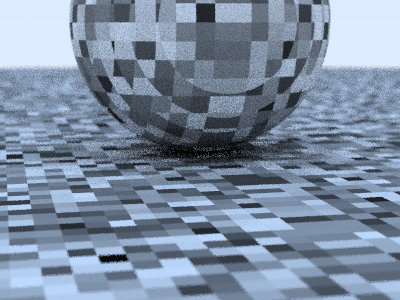
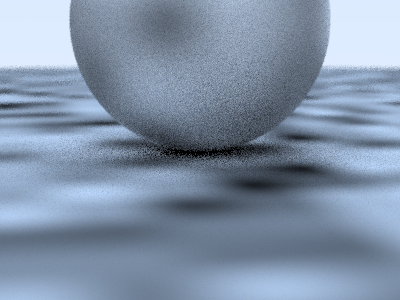
added more to perlin
currently on pg 24

diff --git a/PyTrace_Next_Week/src/core/texture.py b/PyTrace_Next_Week/src/core/texture.py
@@ -28,7 +28,15 @@ class checker_texture(texture):
 		else:
 			return self.even.value(u,v,p)
 
-
+def trilinear_interp(c: np.array, u: float, v: float, w: float):
+	accum = 0
+	for i in range(2):
+		for j in range(2):
+			for k in range(2):
+				accum += (i * u + (1 - i) * (1 - u)) * \
+						 (j * v + (1 - j) * (1 - v)) * \
+						 (k * w + (1 - k) * (1 - w)) * c[i,j,k]
+	return accum
 
 #generate perlin noise
 class perlin:
@@ -50,18 +58,29 @@ class perlin:
 		u = p[0] - math.floor(p[0])
 		v = p[1] - math.floor(p[1])
 		w = p[2] - math.floor(p[2])
-		i = int(4 * p[0]) & 255
-		j = int(4 * p[1]) & 255
-		k = int(4 * p[2]) & 255
-		#print(self.ranfloat[ self.perm_x[i] ^ self.perm_y[j] ^ self.perm_z[k]])
-		return self.ranfloat[ self.perm_x[i] ^ self.perm_y[j] ^ self.perm_z[k]]
+
+		u *= u * (3 - 2*u)
+		v *= v * (3 - 2*v)
+		w *= w * (3 - 2*w)
+
+		i = int(math.floor(p[0]))
+		j = int(math.floor(p[1]))
+		k = int(math.floor(p[2]))
+
+		c = np.zeros((2,2,2))
+		for di in range(2):
+			for dj in range(2):
+				for dk in range(2):
+					c[di,dj,dk] = self.ranfloat[ self.perm_x[(i + di) & 255] ^ self.perm_y[(j + dj) & 255] ^ self.perm_z[(k + dk) & 255]]
+		return trilinear_interp(c,u,v,w)
 
 
 class noise_texture(texture):
-	def __init__(self):
+	def __init__(self,scale: int = 1):
 		self.noise = perlin()
+		self.scale = scale
 	def value(self,u: float, v: float, p: vec3):
 		#print(self.noise.noise(p))
-		return vec3(1,1,1) * self.noise.noise(p)
+		return vec3(1,1,1) * self.noise.noise(self.scale * p)
 
 
